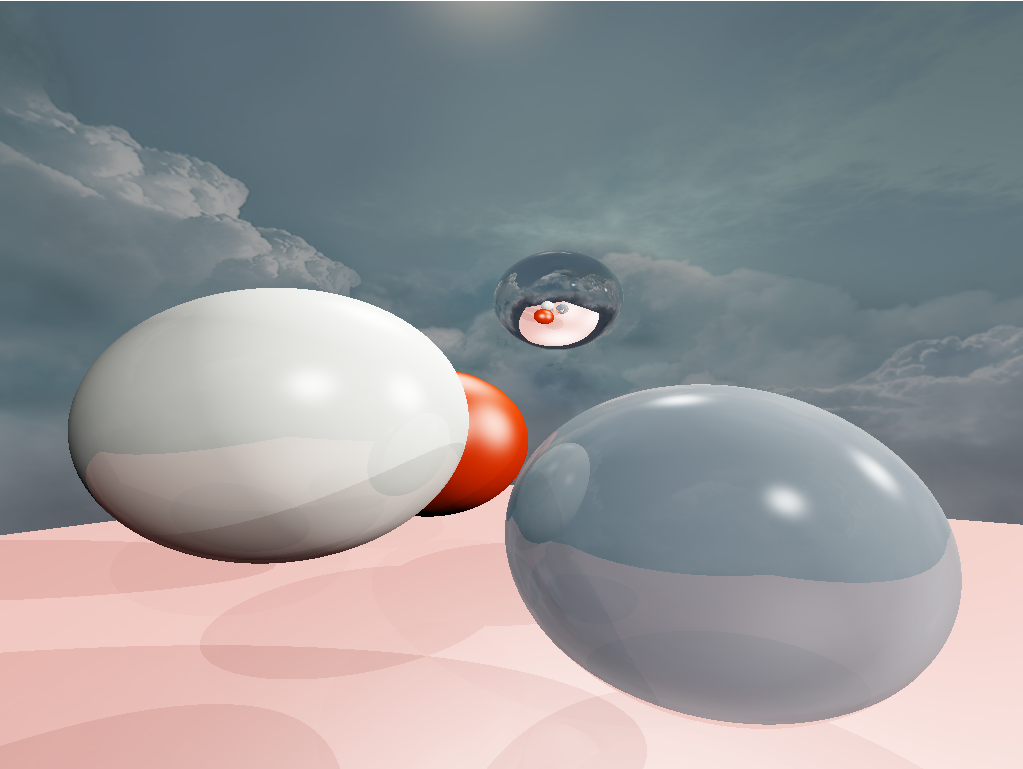
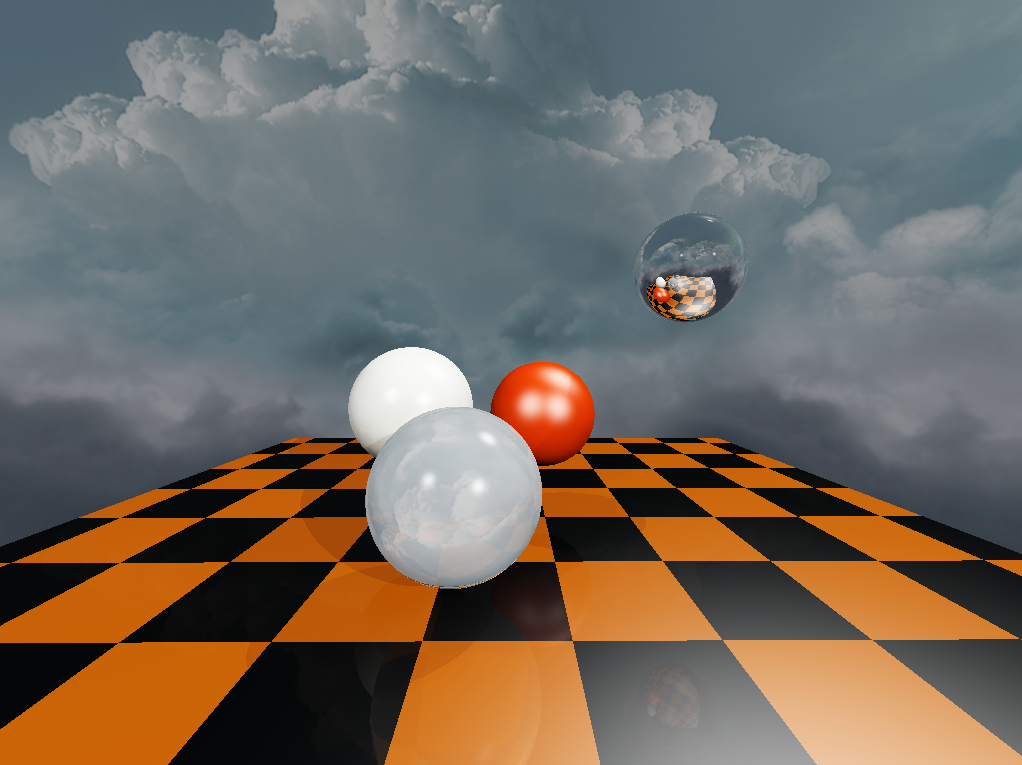
add chessboard pattern, fix horizontal fov and update readme

diff --git a/tinyraytracer/main.cpp b/tinyraytracer/main.cpp
@@ -107,9 +107,22 @@ GLuint createCubeMap() {
 constexpr GLuint width = 1024;
 constexpr GLuint height = 768;
 
+constexpr GLuint groupSize = 16;
+
 int main(int argc, char* argv[])
 {
 	SDL_Window* window = initScreen(width, height);
+
+	int workGroupCount[3] = { 0 };
+	glGetIntegeri_v(GL_MAX_COMPUTE_WORK_GROUP_COUNT, 0, &workGroupCount[0]);
+	glGetIntegeri_v(GL_MAX_COMPUTE_WORK_GROUP_COUNT, 1, &workGroupCount[1]);
+	glGetIntegeri_v(GL_MAX_COMPUTE_WORK_GROUP_COUNT, 2, &workGroupCount[2]);
+	int maxInvocations;
+
+	glGetIntegerv(GL_MAX_COMPUTE_WORK_GROUP_INVOCATIONS, &maxInvocations);
+
+	std::cout << "max ivoc " << maxInvocations << "\n";
+	std::cout << "max count " << workGroupCount[0] << " " << workGroupCount[1] << " " << workGroupCount[2] << "\n";
 
 	FreeCam cam{ glm::vec3{ 0.0 } };
 
@@ -162,7 +175,7 @@ int main(int argc, char* argv[])
 		glActiveTexture(GL_TEXTURE1);
 		glBindTexture(GL_TEXTURE_CUBE_MAP, skybox);
 
-		glDispatchCompute(width / 16, height / 16, 1);
+		glDispatchCompute(width / groupSize, height / groupSize, 1);
 
 		glMemoryBarrier(GL_SHADER_IMAGE_ACCESS_BARRIER_BIT);
 		

diff --git a/README.md b/README.md
@@ -6,9 +6,9 @@ Just like the original version, it supports reflections and refractions but it i
 
 ## Some results
 
-<img src="readme/img1.png" width="800">
+<img src="readme/img1.png">
 
-<img src="readme/img2.png" width="800">
+<img src="readme/img2.png">
 
 ## How it works
 
@@ -17,7 +17,7 @@ it is quite slow.<br> On an `i7 7700 HQ` it took `2717 ms` to render a single fr
 threads the render time can be reduced by a factor of 8 (on this particular processor but I haven't tested it) which means almost 3 frames
 per second.
 
-The GPU implementation, on the other hand, can reach up until 50 fps on a `GTX 1050`. <br>
+The GPU implementation, on the other hand, can reach up to 50 fps on a `GTX 1050`. <br>
 The greatest difficulty faced while porting is the lack of recursion in GLSL.<br>
 In the original algorithm, when a ray hits a surface it is split in two more rays: the *reflected* ray and the *refracted* ray which will recursively
 undergo the same process if they hit another surface (until a certain threshold is reached).
